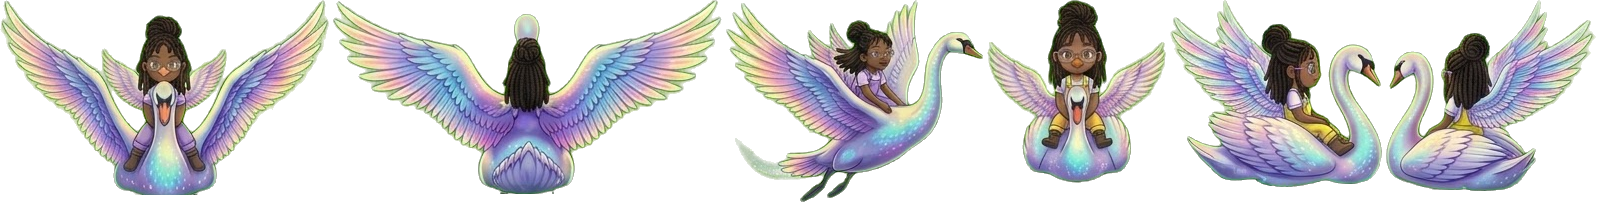
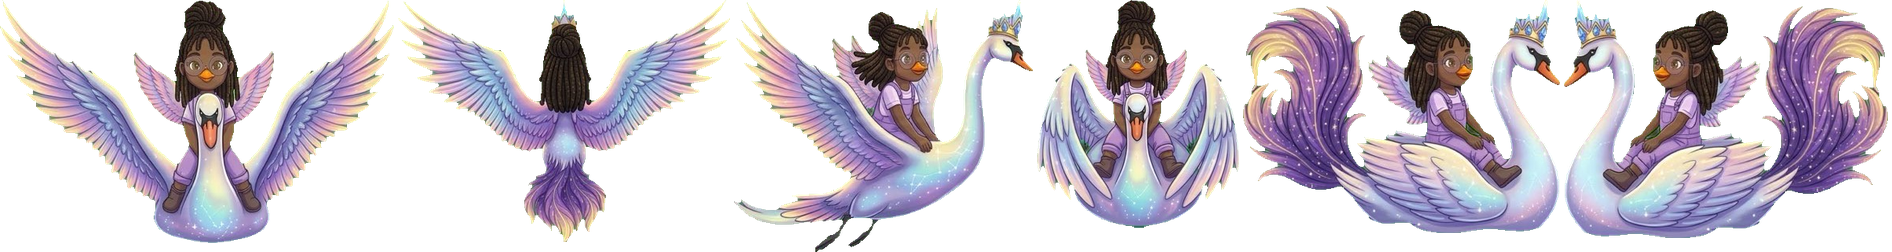
Myah sur Gaïkin : nouvelle planche (couronne et bec)
Claude-Session: https://claude.ai/code/session_014bi368SbjZ4sCSmbjCzFcj

diff --git a/game.js b/game.js
@@ -6985,8 +6985,8 @@ function marker(x, y, sym, col) {
   ctx.fillStyle = col; ctx.strokeStyle = '#7a4b24'; ctx.lineWidth = 1.4; ctx.beginPath(); ctx.arc(x, y, 8, 0, TAU); ctx.fill(); ctx.stroke();
   ctx.fillStyle = sym === '✔' ? '#fff' : '#5a3a14'; ctx.font = 'bold 11px sans-serif'; ctx.textAlign = 'center'; ctx.textBaseline = 'middle'; ctx.fillText(sym, x, y + .5);
 }
-const RIDE_IMG = new Image(); RIDE_IMG.src = 'assets/myah/swanride.png';
-const RIDE = {"fd": [0, 0, 329, 195], "fu": [333, 0, 389, 194], "fs": [726, 0, 257, 202], "wd": [987, 0, 179, 183], "wr": [1170, 0, 212, 187], "wl": [1386, 0, 210, 191]}, RIDE_S = .27;   // planche « Myah sur Gaïkin » (fd/fu/fs : en vol, de face/de dos/de côté ; wd/wr/wl : sur l'eau)
+const RIDE_IMG = new Image(); RIDE_IMG.src = 'assets/myah/swanride.png?v=2';
+const RIDE = {"fd": [0, 0, 394, 243], "fu": [398, 0, 332, 242], "fs": [734, 0, 299, 252], "wd": [1037, 0, 202, 228], "wr": [1243, 0, 317, 233], "wl": [1564, 0, 324, 238]}, RIDE_S = .27 / 1.25;   // planche « Myah sur Gaïkin » (fd/fu/fs : en vol, de face/de dos/de côté ; wd/wr/wl : sur l'eau)
 function drawRide(x, y, mode, alt) {
   if (!RIDE_IMG.complete || !RIDE_IMG.naturalWidth) return false;
   const d4 = player.dir4, fc = player.face; let k, flip = false;

diff --git a/index.html b/index.html
@@ -1149,7 +1149,7 @@
 <script src="mymask.js"></script>
 <script src="sprites.js?v=200"></script>
 <script src="art.js"></script>
-<script src="game.js?v=205"></script>
+<script src="game.js?v=206"></script>
 </body>
 </html>
 
